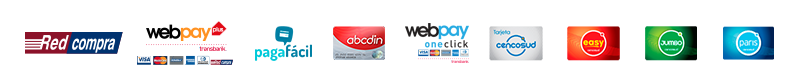
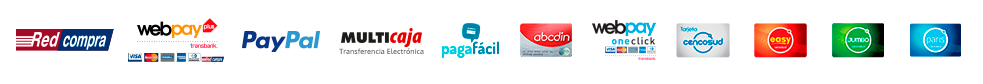
Actualización formas de pago y creación de modal recargar

Changed region(s): [[0.0, 0.2143, 0.9938, 0.7857]]

diff --git a/index.html b/index.html
@@ -95,7 +95,7 @@
                             <div class="col-xs-4">
                                 <input type="email" class="form-control mail" placeholder="">
                             </div>
-                            <button type="submit" class="btn btn-recarga">Recargar</button>
+                            <button type="submit" class="btn btn-recarga" data-toggle="modal" data-target="#recargar">Recargar</button>
                         
                       </div>
                       <div class="row instruccion_baja">
@@ -137,7 +137,7 @@
                             <div class="col-xs-4">
                                 <input type="email" class="form-control mail" placeholder="">
                             </div>
-                            <button type="submit" class="btn btn-recarga">Recargar</button>
+                            <button type="submit" class="btn btn-recarga" data-toggle="modal" data-target="#recargar">Recargar</button>
                         
                       </div>
                       <div class="row instruccion_baja">
@@ -190,7 +190,7 @@
                             <div class="col-xs-4">
                                 <input type="email" class="form-control mail" placeholder="">
                             </div>
-                            <button type="submit" class="btn btn-recarga">Recargar</button>
+                            <button type="submit" class="btn btn-recarga" data-toggle="modal" data-target="#recargar">Recargar</button>
                         
                       </div>
                       <div class="row instruccion_baja">
@@ -231,7 +231,7 @@
                             <div class="col-xs-4">
                                 <input type="email" class="form-control mail" placeholder="">
                             </div>
-                            <button type="submit" class="btn btn-recarga">Recargar</button>
+                            <button type="submit" class="btn btn-recarga" data-toggle="modal" data-target="#recargar">Recargar</button>
                         
                       </div>
                       <div class="row instruccion_baja">
@@ -285,7 +285,7 @@
                             <div class="col-xs-4">
                                 <input type="email" class="form-control mail" placeholder="">
                             </div>
-                            <button type="submit" class="btn btn-recarga">Recargar</button>
+                            <button type="submit" class="btn btn-recarga" data-toggle="modal" data-target="#recargar">Recargar</button>
                         
                       </div>
                       <div class="row instruccion_baja">
@@ -327,7 +327,7 @@
                             <div class="col-xs-4">
                                 <input type="email" class="form-control mail" placeholder="">
                             </div>
-                            <button type="submit" class="btn btn-recarga">Recargar</button>
+                            <button type="submit" class="btn btn-recarga" data-toggle="modal" data-target="#recargar">Recargar</button>
                         
                       </div>
                       <div class="row instruccion_baja">
@@ -368,7 +368,7 @@
                             <div class="col-xs-4">
                                 <input type="email" class="form-control mail" placeholder="">
                             </div>
-                            <button type="submit" class="btn btn-recarga">Recargar</button>
+                            <button type="submit" class="btn btn-recarga" data-toggle="modal" data-target="#recargar">Recargar</button>
                         
                       </div>
                       <div class="row instruccion_baja">
@@ -410,7 +410,7 @@
                             <div class="col-xs-4">
                                 <input type="email" class="form-control mail" placeholder="">
                             </div>
-                            <button type="submit" class="btn btn-recarga">Recargar</button>
+                            <button type="submit" class="btn btn-recarga" data-toggle="modal" data-target="#recargar">Recargar</button>
                         
                       </div>
                       <div class="row instruccion_baja">
@@ -451,7 +451,7 @@
                             <div class="col-xs-4">
                                 <input type="email" class="form-control mail" placeholder="">
                             </div>
-                            <button type="submit" class="btn btn-recarga">Recargar</button>
+                            <button type="submit" class="btn btn-recarga" data-toggle="modal" data-target="#recargar">Recargar</button>
                         
                       </div>
                       <div class="row instruccion_baja">
@@ -493,7 +493,7 @@
                             <div class="col-xs-4">
                                 <input type="email" class="form-control mail" placeholder="">
                             </div>
-                            <button type="submit" class="btn btn-recarga">Recargar</button>
+                            <button type="submit" class="btn btn-recarga" data-toggle="modal" data-target="#recargar">Recargar</button>
                         
                       </div>
                       <div class="row instruccion_baja">
@@ -550,7 +550,7 @@
                             <div class="col-xs-4">
                                 <input type="email" class="form-control mail" placeholder="">
                             </div>
-                            <button type="submit" class="btn btn-recarga">Recargar</button>
+                            <button type="submit" class="btn btn-recarga" data-toggle="modal" data-target="#recargar">Recargar</button>
                         
                       </div>
                       <div class="row instruccion_baja">
@@ -592,7 +592,7 @@
                             <div class="col-xs-4">
                                 <input type="email" class="form-control mail" placeholder="">
                             </div>
-                            <button type="submit" class="btn btn-recarga">Recargar</button>
+                            <button type="submit" class="btn btn-recarga" data-toggle="modal" data-target="#recargar">Recargar</button>
                         
                       </div>
                       <div class="row instruccion_baja">
@@ -772,6 +772,77 @@
         </div>
       </div>
 
+<!-- Modal Recargar -->
+
+      <div class="modal fade" id="recargar" tabindex="-1" role="dialog" aria-labelledby="myModalLabel">
+        <div class="modal-dialog" role="document">
+          <div class="modal-content">
+            <div class="modal-header">
+              <button type="button" class="close" data-dismiss="modal" aria-label="Close"><img src="imagenes/btn_cerrar.png"></button>
+              <h4 class="modal-title" id="myModalLabel">Elige tu medio de pago</h4>
+            </div>
+            <div class="modal-body activate">
+              <div class="act_mail">
+              <div class="row">
+                  <div class="col-xs-2"></div>
+                  <div class="col-sm-8 contenido_mod">
+                    <p class="tit_pagos"><img src="imagenes/num_1.png">Detalle de tu carga</p>
+                    <p class="texto_pagos">Monto a recargar: %%Monto_recarga%%<br>
+                    N° a recargar: %%numero_cliente%%<br>
+                    Compañía: %%compañia_cliente%%<br>
+                    Correo electrónico cliente: %%correo_cliente%%</p>
+                  </div>
+                  <div class="col-xs-2"></div>
+              </div>
+              <div class="row">
+                  <div class="col-sm-12 contenido_mod">
+                    <form>
+                      <p class="tit_pagos"><img src="imagenes/num_2.png">Selecciona tu medio de pago</p>
+                        <div class="cc-selector medios_pago">
+                          <input checked="checked" id="web_pay" type="radio" name="credit-card" value="web_pay" />
+                          <label class="drinkcard-cc web_pay" for="web_pay"></label>
+                          <input id="paga_facil" type="radio" name="credit-card" value="paga_facil" />
+                          <label class="drinkcard-cc paga_facil"for="paga_facil"></label>
+                          <input checked="checked" id="multicaja" type="radio" name="credit-card" value="multicaja" />
+                          <label class="drinkcard-cc multicaja" for="multicaja"></label>
+                          <input id="one_click" type="radio" name="credit-card" value="one_click" />
+                          <label class="drinkcard-cc one_click"for="one_click"></label>
+                          <input checked="checked" id="cencusud" type="radio" name="credit-card" value="cencusud" />
+                          <label class="drinkcard-cc cencusud" for="cencusud"></label>
+                          <input id="paypal" type="radio" name="credit-card" value="paypal" />
+                          <label class="drinkcard-cc paypal"for="paypal"></label>
+                        </div> 
+                    </form>
+                  </div>
+              </div>
+                <div class="row">
+                  <div class="panel-group terminos" id="accordion" role="tablist" aria-multiselectable="true">
+                    <div class="panel panel-default">
+                      <div class="panel-heading" role="tab" id="headingOne">
+                        <h4 class="panel-title tx_center terminos">
+                           <input type="checkbox"> He leído y estoy de acuerdo con los <a class="texto_celeste" role="button" data-toggle="collapse" data-parent="#accordion" href="#collapseOne" <aria-> </aria-expanded="true" aria-controls="collapseOne">términos y condiciones.</a>
+                        </h4>
+                      </div>
+                      <div id="collapseOne" class="panel-collapse collapse" role="tabpanel" aria-labelledby="headingOne">
+                          <div class="panel-body terminos">
+                            <div class="caja_contenido">
+                                <p><b>Términos y Condiciones Recargafacil.cl</b></p><p>Los puntos obtenidos por la siguiente transacción serán abonados a la cuenta de correo electrónico del usuario que realiza la recarga. En caso que no se ingrese un correo electrónico, los puntos no serán abonados a ninguna cuenta o cliente.</p><p>Las recarga exitosas no tienen derecho a reembolso.</p><p>Si su recarga fue cargada a su tarjeta de crédito, débito o de casa comercial y su saldo no fue abonado, por favor contáctese con soporte@redfacil.com, indicando la fecha de la recarga, número del celular, orden de compra y medio de pago utilizado para el pago de tu recarga. Su solicitud será evaluada, y en caso que corresponda, se le gatillará otra recarga sin cargo al cliente.</p><p><b>Términos y Condiciones Webpay OneClick en Recargafacil.cl</b></p><p>Los usuarios de Recargafacil.cl podrán acceder a esta modalidad de pago llamada Webpay Oneclick, la cual consiste en realizar tus compras en https://www.recargafacil.cl solo con 1(un) click.</p><p>Para acceder esta forma de pago, debes empezar por elegir la opción Webpay Oneclick y completar el formulario con los datos de tu tarjeta de crédito por única vez. Los datos son ingresados sobre Webpay Plus(*) y se redireccionará a tu banco para ingresar las claves de seguridad correspondientes, por el monto de $1, el cual es solo referencial ya que no se verá reflejado en tu estado de cuenta(**). Desde ese momento, al elegir la opción Webpay Oneclick podrás realizar tus compras solo con presionar “Comprar”, solo con 1(un) click(***).</p><p>Solo podrás tener activa 1(una) tarjeta por cada cuenta de Recargafacil.cl que tengas. Si deseas terminar con este servicio solo debes desactivar tu tarjeta, en los datos de tu perfil o al realizar la próxima compra(****)</p><p>Solo podrás enrolar un producto con este medio de pago</p><p>(*) Webpay Plus, plataforma segura que cuenta con el respaldo de Transbank S.A.</p><p>(**) Solo la primera vez “te inscribes y compras” en la misma transacción.</p><p>(***) Aplica solo para ventas con tarjetas de crédito de emisores nacionales. No admite cuotas.</p><p>(****) Cada usuario es resposable de la seguridad de su contraseña.</p>
+                            </div>
+                          </div>
+                      </div>
+                    </div>
+                  </div>
+                </div>
+              </div>
+            </div>
+            <div class="modal-footer">
+              <button type="button" class="btn btn-primary">Recargar</button>
+            </div>
+          </div>
+        </div>
+      </div>
+
+
 
     <!-- JS -->
     <script src="js/bootstrap-select.js"></script>
@@ -855,6 +926,11 @@
     </script>
     <script>
       $('#myModal3').on('shown.bs.modal', function () {
+      $('#myInput').focus()
+      })
+    </script>
+    <script>
+      $('#recargar').on('shown.bs.modal', function () {
       $('#myInput').focus()
       })
     </script>

diff --git a/css/estilo.css b/css/estilo.css
@@ -208,6 +208,11 @@ a:hover .btn_serv {
 	background: #508CB6;
 }
 
+.btn-recarga:focus {
+	color: white;
+	background: #508CB6;
+}
+
 .instruccion_baja {
 	color: gray;
 	padding-bottom: 30px;
@@ -223,6 +228,21 @@ a:hover .btn_serv {
 .pregunta_tol button {
 	border:0px;
 	padding: 0px;
+}
+
+.tx_center {
+	text-align: center;
+}
+
+.caja_contenido{ 
+	padding: 10px 30px;
+	border: 1px solid lightgray;
+	margin: 10px 20px 0px 20px;
+	height: 100px;
+	overflow-y: scroll;
+	-webkit-border-radius: 3px;
+	-moz-border-radius: 3px;
+	border-radius: 3px;
 }
 
 .pregunta_tol .btn-default:hover {
@@ -1084,4 +1104,93 @@ footer.sin_linea {
 }
 .zonapuntos.solo {
 	height: 0px;
+}
+
+a.texto_celeste {
+	color:#64afe3;
+	text-decoration: none; 
+}
+
+.panel-default > .panel-heading {
+	background-color: white;
+}
+
+.panel-default {
+	border: 0px;
+}
+
+.panel-group .panel-heading + .panel-collapse > .list-group, .panel-group .panel-heading + .panel-collapse > .panel-body {
+	border: 0px;
+}
+
+.panel {
+	box-shadow: 0px 0px 0px rgba(0, 0, 0, 0.05);
+}
+.panel-body.terminos {
+	padding-top: 0px;
+}
+.panel-group.terminos {
+	margin-bottom: 0px;
+}
+
+.panel-title.tx_center.terminos {
+	font-weight: bold;
+	font-size: 14px;
+}
+
+.cc-selector input{
+    margin:0;padding:0;
+    -webkit-appearance:none;
+       -moz-appearance:none;
+            appearance:none;
+}
+
+.cc-selector-2 input{
+    position:absolute;
+    z-index:999;
+}
+
+.web_pay{background-image:url("../imagenes/sec_web_pay.png");}
+.paga_facil{background-image:url("../imagenes/sec_paga_facil.png");}
+.multicaja{background-image:url("../imagenes/sec_multicaja.png");}
+.one_click{background-image:url("../imagenes/sec_web_pay_one_click.png");}
+.cencusud{background-image:url("../imagenes/sec_cencosud.png");}
+.paypal{background-image:url("../imagenes/sec_paypal.png");}
+
+.cc-selector-2 input:active +.drinkcard-cc, .cc-selector input:active +.drinkcard-cc{opacity: .9;}
+.cc-selector-2 input:checked +.drinkcard-cc, .cc-selector input:checked +.drinkcard-cc{
+    border: 3px solid #97ac01;
+    -webkit-border-radius: 3px;
+	-moz-border-radius: 3px;
+	border-radius: 3px;
+}
+.drinkcard-cc{
+    cursor:pointer;
+    background-size:contain;
+    background-repeat:no-repeat;
+    display:inline-block;
+    width:170px;height:75px;
+    border: 3px solid white;
+    -webkit-border-radius: 3px;
+	-moz-border-radius: 3px;
+	border-radius: 3px;
+}
+.drinkcard-cc:hover{
+    border: 3px solid #97ac01;
+    -webkit-border-radius: 3px;
+	-moz-border-radius: 3px;
+	border-radius: 3px;
+}
+.medios_pago {
+	padding: 0px 12px;
+}
+
+p.tit_pagos {
+	font-size: 24px;
+}
+
+p.texto_pagos {
+	font-size: 20px;
+	padding-bottom: 25px;
+	line-height: 35px;
 }
